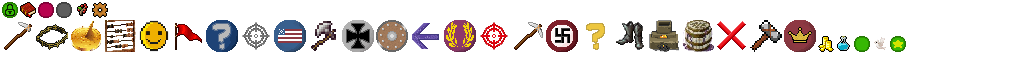
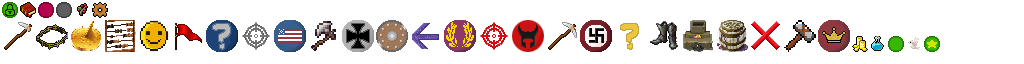
GameMap: Start implementation of barbarians

Changed region(s): [[0.5, 0.3125, 0.9375, 0.8125]]

diff --git a/server/src/main/java/me/rhin/openciv/server/game/map/GameMap.java b/server/src/main/java/me/rhin/openciv/server/game/map/GameMap.java
@@ -1,9 +1,7 @@
 package me.rhin.openciv.server.game.map;
 
 import java.util.ArrayList;
-import java.util.Arrays;
 import java.util.Random;
-import java.util.concurrent.ConcurrentLinkedQueue;
 
 import org.java_websocket.WebSocket;
 
@@ -547,7 +545,7 @@ public class GameMap implements MapRequestListener {
 
 		generateResource(TileType.CATTLE, Server.getInstance().getPlayers().size() * 8, TileType.GRASS,
 				TileType.PLAINS);
-		
+
 		generateResource(TileType.IRON, Server.getInstance().getPlayers().size() * 6, TileType.GRASS, TileType.PLAINS,
 				TileType.PLAINS_HILL, TileType.GRASS_HILL, TileType.DESERT, TileType.DESERT_HILL);
 
@@ -577,6 +575,20 @@ public class GameMap implements MapRequestListener {
 		for (Tile tile : tileIndexer.getAdjacentRiverTiles()) {
 			if (tile.getBaseTileType() == TileType.DESERT)
 				tile.setTileType(TileType.FLOODPLAINS);
+		}
+
+		// Spawn barbarians
+		int campAmount = 8 * mapSize;
+		for (int i = 0; i < campAmount; i++) {
+			int x = rnd.nextInt(getWidth());
+			int y = rnd.nextInt(getHeight());
+			Tile tile = tiles[x][y];
+			if (tile.containsTileProperty(TileProperty.WATER) || tile.containsTileType(TileType.MOUNTAIN)) {
+				i--;
+				continue;
+			}
+
+			tile.setTileType(TileType.BARBARIAN_CAMP);
 		}
 
 	}

diff --git a/server/src/main/java/me/rhin/openciv/server/game/map/tile/TileType.java b/server/src/main/java/me/rhin/openciv/server/game/map/tile/TileType.java
@@ -436,18 +436,6 @@ public enum TileType implements Comparable<TileType> {
 			return statLine;
 		}
 	},
-	ROAD(TileLayer.LOW) {
-		@Override
-		public StatLine getStatLine() {
-			return new StatLine();
-		}
-
-		@Override
-		public float getMovementCost() {
-			return 0.5f;
-		}
-	},
-
 	FORT(TileLayer.MIDDLE) {
 		@Override
 		public StatLine getStatLine() {
@@ -458,7 +446,29 @@ public enum TileType implements Comparable<TileType> {
 		public float getMovementCost() {
 			return 0.5f;
 		}
-	};
+	},
+	BARBARIAN_CAMP(TileLayer.MIDDLE) {
+		@Override
+		public StatLine getStatLine() {
+			return new StatLine();
+		}
+
+		@Override
+		public float getMovementCost() {
+			return 0.5f;
+		}
+	},
+	ROAD(TileLayer.LOW) {
+		@Override
+		public StatLine getStatLine() {
+			return new StatLine();
+		}
+
+		@Override
+		public float getMovementCost() {
+			return 0.5f;
+		}
+	},;
 
 	public enum TileLayer {
 		BASE,

diff --git a/core/src/main/java/me/rhin/openciv/game/map/tile/TileType.java b/core/src/main/java/me/rhin/openciv/game/map/tile/TileType.java
@@ -41,6 +41,7 @@ public enum TileType {
 	CATTLE_IMPROVED(TextureEnum.TILE_CATTLE_IMPROVED, TileLayer.MIDDLE, TileProperty.IMPROVEMENT),
 	SHEEP_IMPROVED(TextureEnum.TILE_SHEEP_IMPROVED, TileLayer.MIDDLE, TileProperty.IMPROVEMENT),
 	FORT(TextureEnum.TILE_FORT, TileLayer.MIDDLE, TileProperty.IMPROVEMENT),
+	BARBARIAN_CAMP(TextureEnum.TILE_BARBARIAN_CAMP, TileLayer.MIDDLE, TileProperty.IMPROVEMENT),
 	ROAD(0.5F, TileProperty.ROAD);
 
 	public enum TileLayer {

diff --git a/server/src/main/java/me/rhin/openciv/server/game/state/InGameState.java b/server/src/main/java/me/rhin/openciv/server/game/state/InGameState.java
@@ -886,6 +886,9 @@ public class InGameState extends GameState
 			}
 		}
 
+		Tile tile1 = map.getTiles()[players.get(0).getSpawnX() + 1][players.get(0).getSpawnY()];
+		tile1.setTileType(TileType.BARBARIAN_CAMP);
+
 		// Debug code
 		if (players.size() > 1) {
 			players.get(0).setSpawnPos(players.get(1).getSpawnX() + 2, players.get(1).getSpawnY() + 2);

diff --git a/core/src/main/java/me/rhin/openciv/asset/TextureEnum.java b/core/src/main/java/me/rhin/openciv/asset/TextureEnum.java
@@ -51,6 +51,7 @@ public enum TextureEnum {
 	TILE_UNDISCOVERED,
 	TILE_NON_VISIBLE,
 	TILE_FORT,
+	TILE_BARBARIAN_CAMP,
 	UNIT_SETTLER,
 	UNIT_WARRIOR,
 	UNIT_SCOUT,
@@ -114,6 +115,7 @@ public enum TextureEnum {
 	ICON_BARREL,
 	ICON_MORALE,
 	ICON_HAMMER,
+	ICON_BARBARIAN,
 	UI_SELECTION,
 	UI_BUTTON,
 	UI_BUTTON_HOVERED,

diff --git a/shared/src/main/java/me/rhin/openciv/shared/map/MapSize.java b/shared/src/main/java/me/rhin/openciv/shared/map/MapSize.java
@@ -4,7 +4,7 @@ public enum MapSize {
 
 	DUEL(40, 24),
 	TINY(56, 36),
-	SMALL(66, 42),
+	SMALL(60, 44),
 	STANDARD(80, 52),
 	LARGE(104, 64),
 	HUGE(128, 80);
